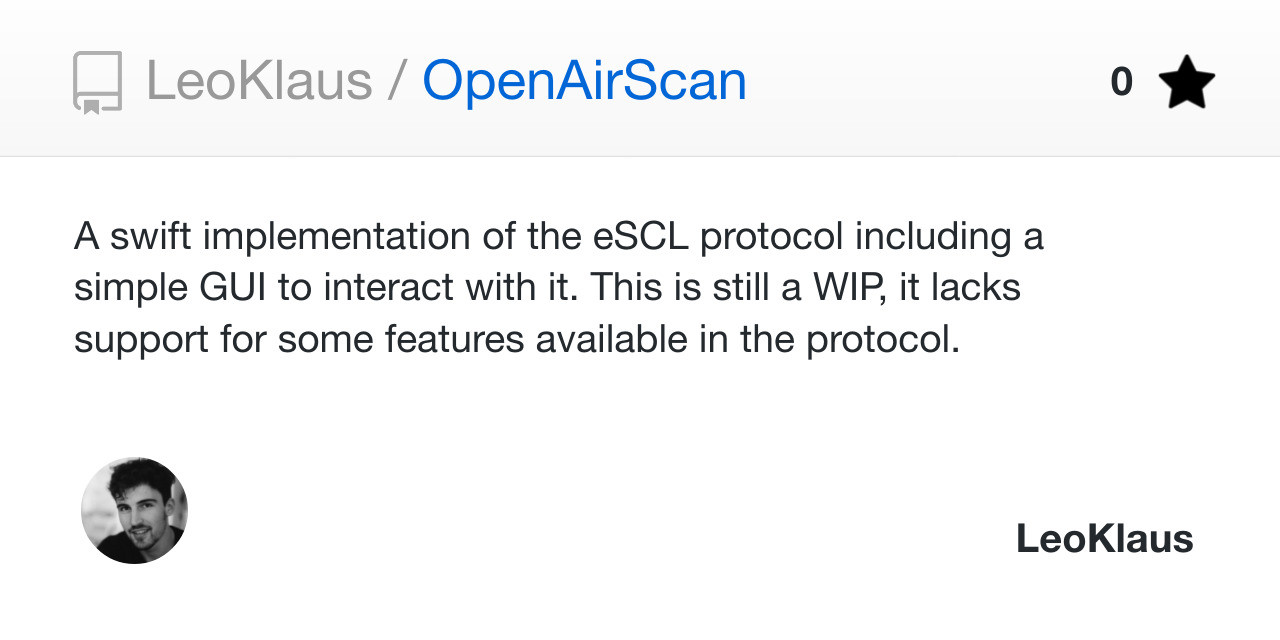
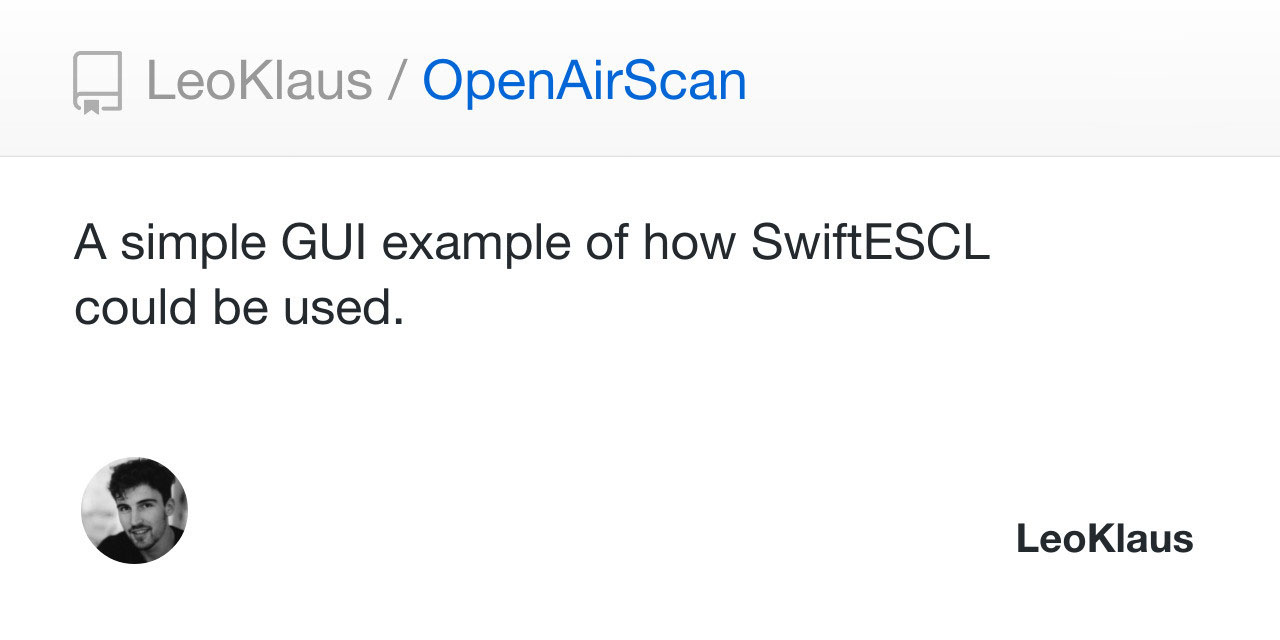
Changed the site a bit to better represent SwiftESCL and OpenAirScan and highlight the difference between the two.

Changed region(s): [[0.0312, 0.3438, 0.8125, 0.5625], [0.8438, 0.0938, 0.9688, 0.1875]]

diff --git a/openairscan/index.html b/openairscan/index.html
@@ -1,30 +1,32 @@
 <!DOCTYPE html>
 <html>
 <head>
-    <title>OpenAirScan - wehrfritz.me</title>
+    <title>SwiftESCL - wehrfritz.me</title>
     <link rel="stylesheet" href="../fonts/fontawesome/css/all.css">
     <link rel="stylesheet" href="css/styles.css">
     <link rel="apple-touch-icon" sizes="180x180" href="../images/apple-touch-icon.png">
     <link rel="icon" type="image/png" sizes="32x32" href="../images/favicon-32x32.png">
     <link rel="icon" type="image/png" sizes="16x16" href="../images/favicon-16x16.png">
     <link rel="manifest" href="../site.webmanifest">
-    <link rel="mask-icon" href="../images/safari-pinned-tab.svg" color="#333333">
+    <link rel="mask-icon" href="../images/safari-pinned-tab.svg" color="#30b0c7">
     <meta name="apple-mobile-web-app-title" content="OpenAirScan - wehrfritz.me">
     <meta name="application-name" content="OpenAirScan - wehrfritz.me">
-    <meta name="msapplication-TileColor" content="#da532c">
-    <meta name="theme-color" content="#333333">
+    <meta name="msapplication-TileColor" content="#30b0c7">
+    <meta name="theme-color" content="#30b0c7">
 </head>
 <body>
     <div class="logo">
-        <h1>OpenAirScan</h1>
+        <h1>SwiftESCL</h1>
 
-        <p>A Swift implementation of the eSCL/AirScan protocol licensed under the MIT License.
-            <br><br>
-            Includes a fully working example written in SwiftUI.
-            <br><br>
-            Check the project out on Github:
-        </p>
-
+        <p>A Swift implementation of the eSCL/AirScan protocol licensed under the MIT License.</p>
+        <br><br>
+        <p>I've published both, a ready to use XCode package and a small app using the package to provide basic scanning capabilities. 
+            You can check out both Repos on GitHub:</p>
+        <br>
+    </div>
+    <div class="links">
+        <a target="_blank" href = "https://github.com/LeoKlaus/SwiftESCL"><img src="images/socialescl.jpg"></a>
+        
         <a target="_blank" href = "https://github.com/LeoKlaus/OpenAirscan"><img src="images/social.jpg"></a>
     </div>
 

diff --git a/index.html b/index.html
@@ -18,17 +18,16 @@
     <div class="logo">
         <h1>Leo Wehrfritz</h1>
         <img src="images/me.jpg">
-        <p>Computer science student at JGU Mainz, 
-            <br>part time IT-Support, 
+        <p>Computer science student at JGU Mainz,
             <br>currently mostly working with Swift</p>
     </div>
     <div class="links">
-        <a target="_blank" href="https://github.com/LeoKlaus" class="button"><i class="fab fa-github"></i> Github</a>
+        <a target="_blank" href="https://github.com/LeoKlaus" class="button"><i class="fab fa-github"></i> GitHub</a>
 	<button onclick="copyToClip()" onmouseout="outFunc()" class="button">
   		<span class="tooltiptext" id="myTooltip">Copy to clipboard</span>
   		<i class="fab fa-discord"></i> derkleineleo#6682
   	</button>
-    <a href="openairscan/" class="button"><i class="fa fa-print"></i> OpenAirScan</a>
+    <a href="openairscan/" class="button"><i class="fa fa-print"></i> SwiftESCL</a>
     </div>
 <script>
 	function copyToClip() {

diff --git a/openairscan/css/styles.css b/openairscan/css/styles.css
@@ -27,7 +27,7 @@ body {
 }
 
 img {
-  width: 50em;
+  width: 32em;
 }
 
 h1 {
